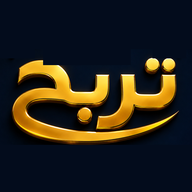
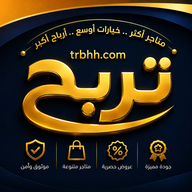
استكمال اعتماد اللوحة الكاملة كشعار موحّد + إصلاح أيقونة التبويب (سقط سهواً)
الملفات الفعلية لهذا التغيير — سقطت عن الالتزام السابق بسبب خطأ في
أمر git (الالتزام السابق حذف icon.svg فقط).

diff --git a/src/components/header.tsx b/src/components/header.tsx
@@ -68,15 +68,15 @@ export async function Header() {
         </div>
 
         {/* logo on the left (RTL: last child) — يبقى داخل هامش الحاوية بدل ملامسة حافة
-            الشاشة تماماً. logo-header.png نسخة بخلفية شفافة حقيقية (لا مربّع داكن) من
-            نفس الشعار: النسخة القديمة كانت تتلاشى (يسارها خصوصاً) إلى نفس لون تدرّج
-            الهيدر الداكن فيظهر الشعار وكأنه مختفٍ رغم أنه يُرسَم كاملاً.
+            الشاشة تماماً. logo-header.png هو الملف المعتمد رسمياً (لوحة كاملة بخلفية
+            داكنة وشعار «تربح» الذهبي) — يُستخدم كما هو بلا اقتصاص لضمان مطابقته
+            تماماً للنسخة المعتمدة في كل مكان بالموقع (الهيدر وبطاقات المشاركة).
             <img> عادي بدل next/image عمداً: محسّن الصور عبر sharp على هذا السيرفر
             المستضاف ذاتياً سبق أن سبّب اختفاء محتوى كامل لصور أخرى (انظر next.config.js
             تعليق remotePatterns) — نفس فئة العطل هنا (شعار يظهر ثم يختفي فوراً). صورة
             محلية صغيرة من public/ لا تحتاج تحسيناً خادمياً أصلاً. */}
         <Link href="/" className="shrink-0">
-          <img src="/logo-header.png" alt="تربح" width={92} height={48} className="h-9 w-auto object-contain" />
+          <img src="/logo-header.png" alt="تربح" width={256} height={256} className="h-11 w-11 rounded-xl object-cover" />
         </Link>
       </div>
     </header>

diff --git a/src/app/api/store-manifest/[id]/route.ts b/src/app/api/store-manifest/[id]/route.ts
@@ -40,9 +40,9 @@ export async function GET(req: NextRequest, { params }: { params: Promise<{ id: 
   const icons: { src: string; sizes: string; type: string; purpose: string }[] = [];
   if (logoAbs) icons.push({ src: logoAbs, sizes: '512x512', type: iconType(logoAbs), purpose: 'any' });
   icons.push(
-    { src: `${base}/icon-192.png?v=2`, sizes: '192x192', type: 'image/png', purpose: 'any' },
-    { src: `${base}/icon-512.png?v=2`, sizes: '512x512', type: 'image/png', purpose: 'any' },
-    { src: `${base}/icon-maskable-512.png?v=2`, sizes: '512x512', type: 'image/png', purpose: 'maskable' },
+    { src: `${base}/icon-192.png?v=3`, sizes: '192x192', type: 'image/png', purpose: 'any' },
+    { src: `${base}/icon-512.png?v=3`, sizes: '512x512', type: 'image/png', purpose: 'any' },
+    { src: `${base}/icon-maskable-512.png?v=3`, sizes: '512x512', type: 'image/png', purpose: 'maskable' },
   );
   const manifest = {
     id: start,

diff --git a/src/app/layout.tsx b/src/app/layout.tsx
@@ -35,13 +35,13 @@ export async function generateMetadata(): Promise<Metadata> {
       siteName: SITE.name,
       title: shareTitle,
       description: shareDesc,
-      images: [{ url: '/icon-512.png?v=2', width: 512, height: 512, alt: SITE.name }],
+      images: [{ url: '/icon-512.png?v=3', width: 512, height: 512, alt: SITE.name }],
     },
-    twitter: { card: 'summary', title: shareTitle, description: shareDesc, images: ['/icon-512.png?v=2'] },
+    twitter: { card: 'summary', title: shareTitle, description: shareDesc, images: ['/icon-512.png?v=3'] },
     robots: { index: true, follow: true },
     manifest: '/manifest.webmanifest',
     appleWebApp: { capable: true, statusBarStyle: 'default', title: SITE.name },
-    icons: { icon: '/icon.svg', apple: '/apple-icon.png?v=2' },
+    icons: { icon: '/icon-192.png?v=3', apple: '/apple-icon.png?v=3' },
   };
 }
 
